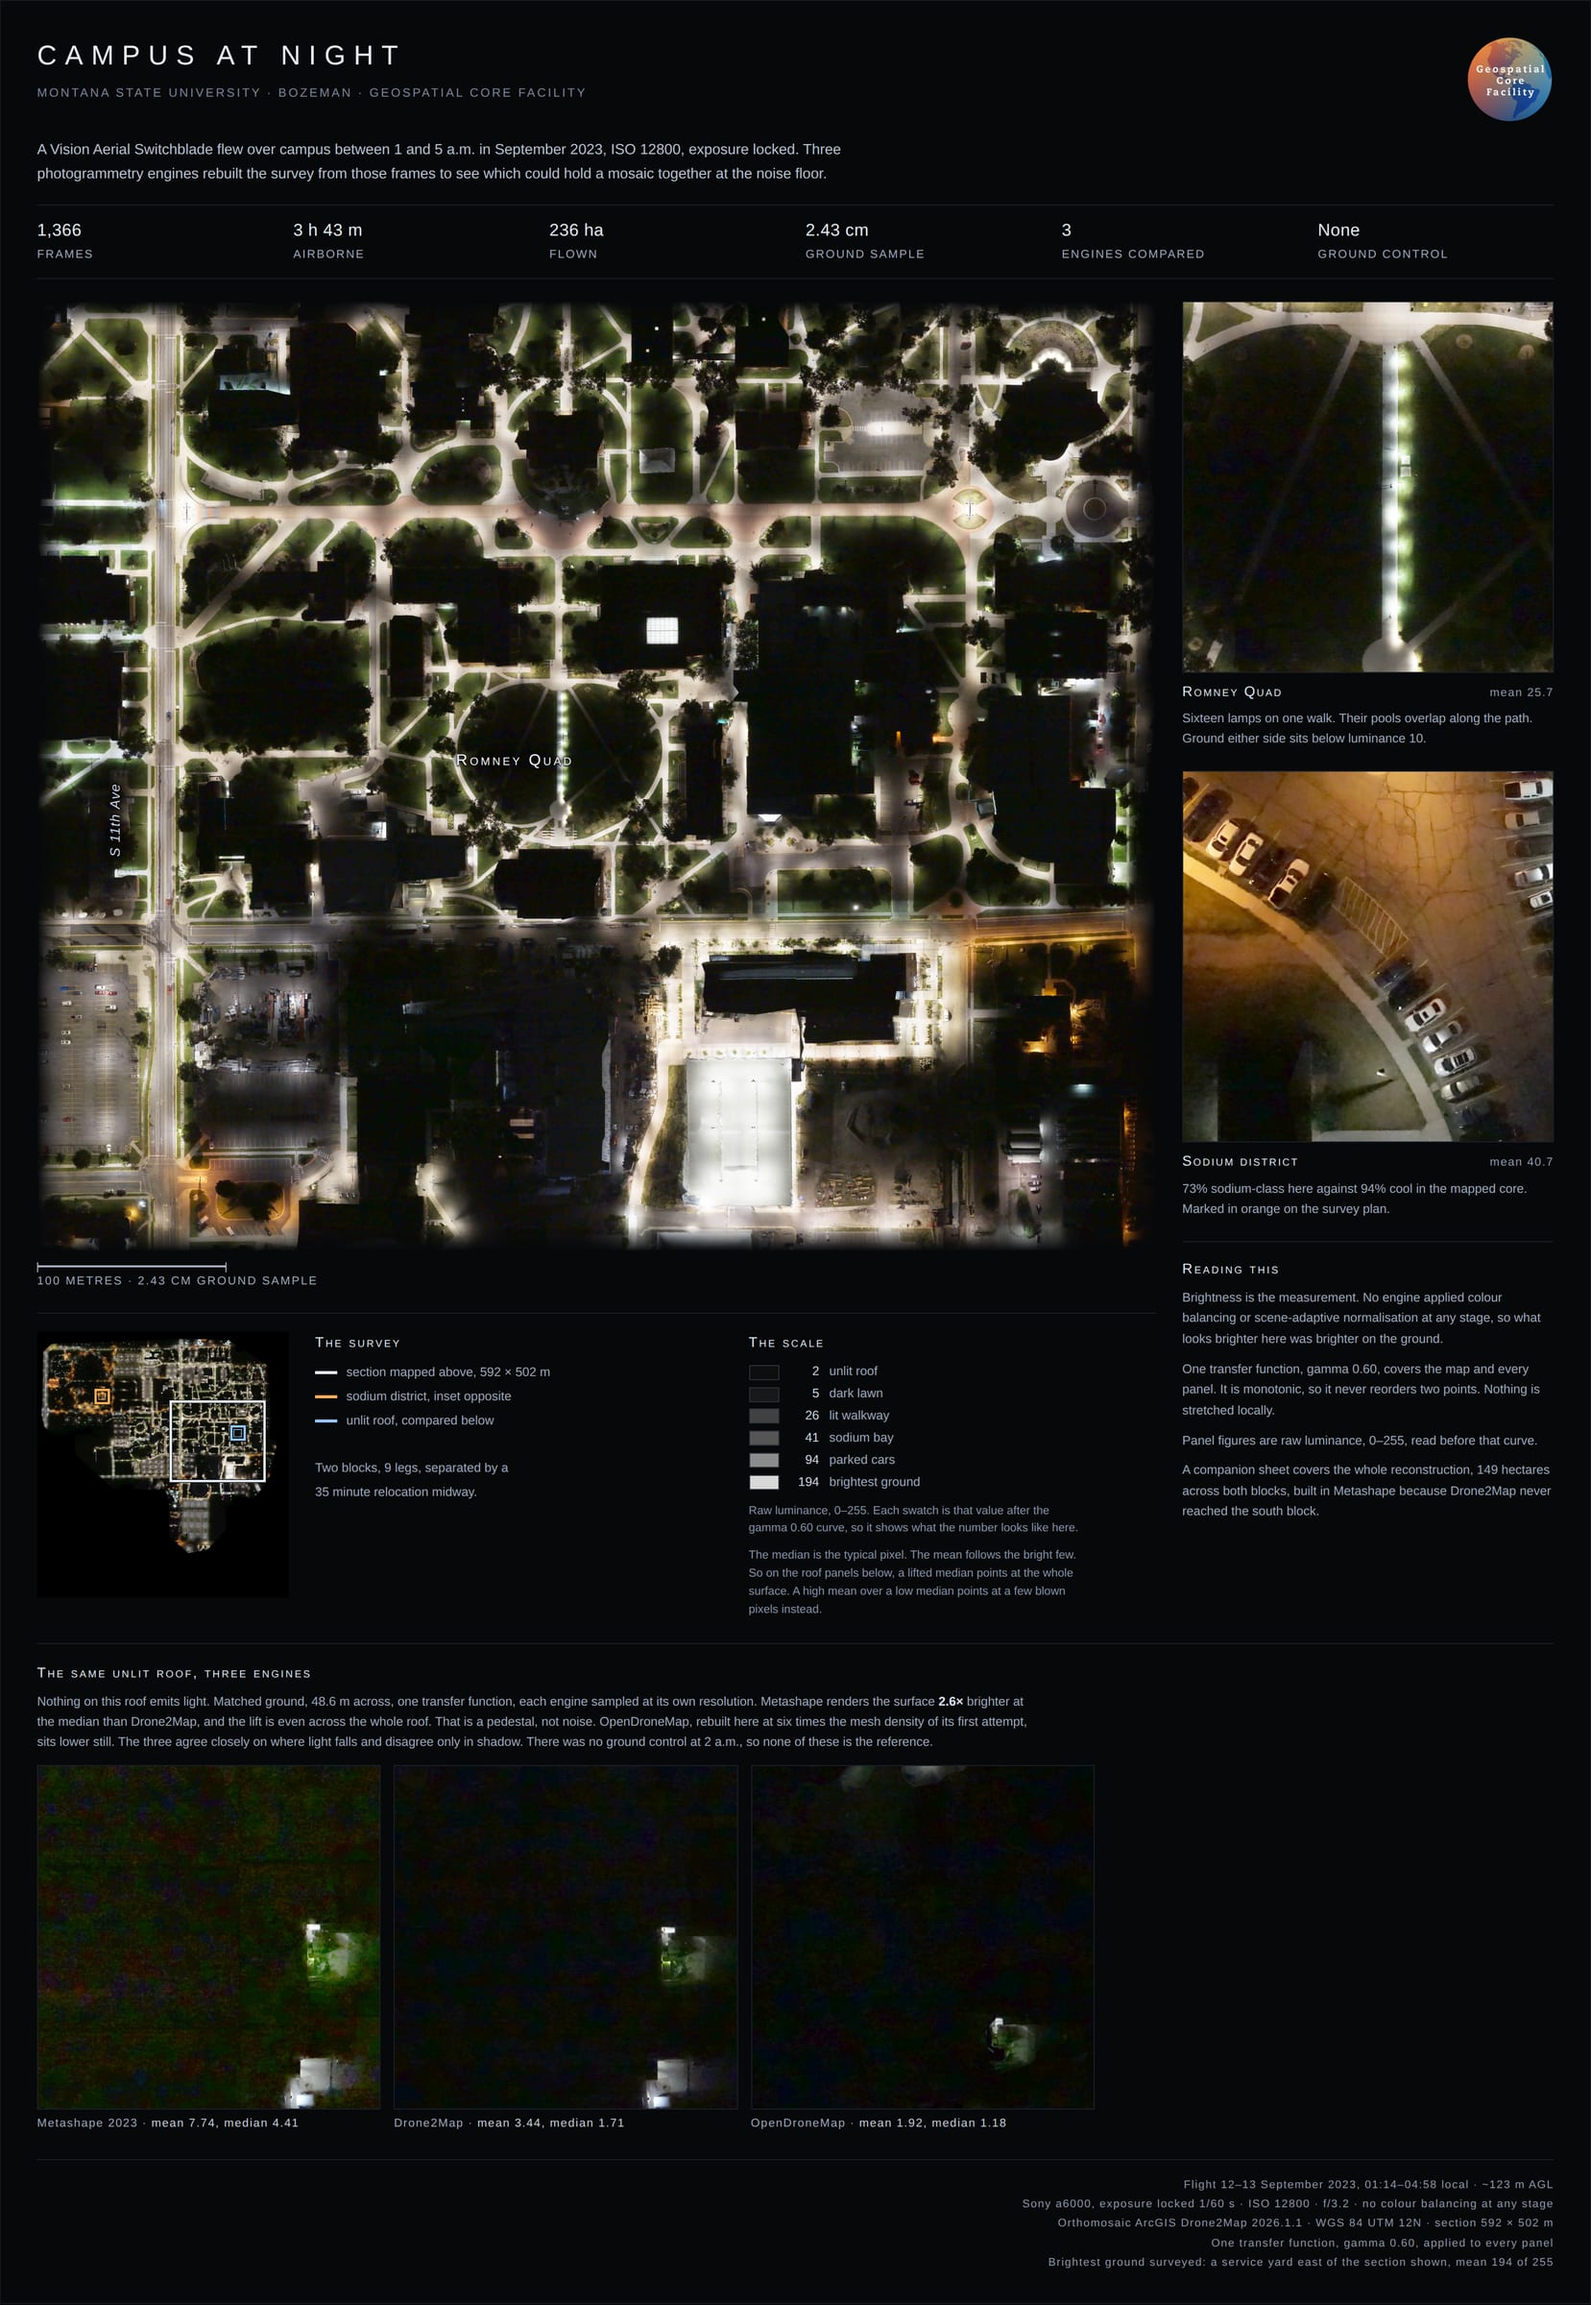
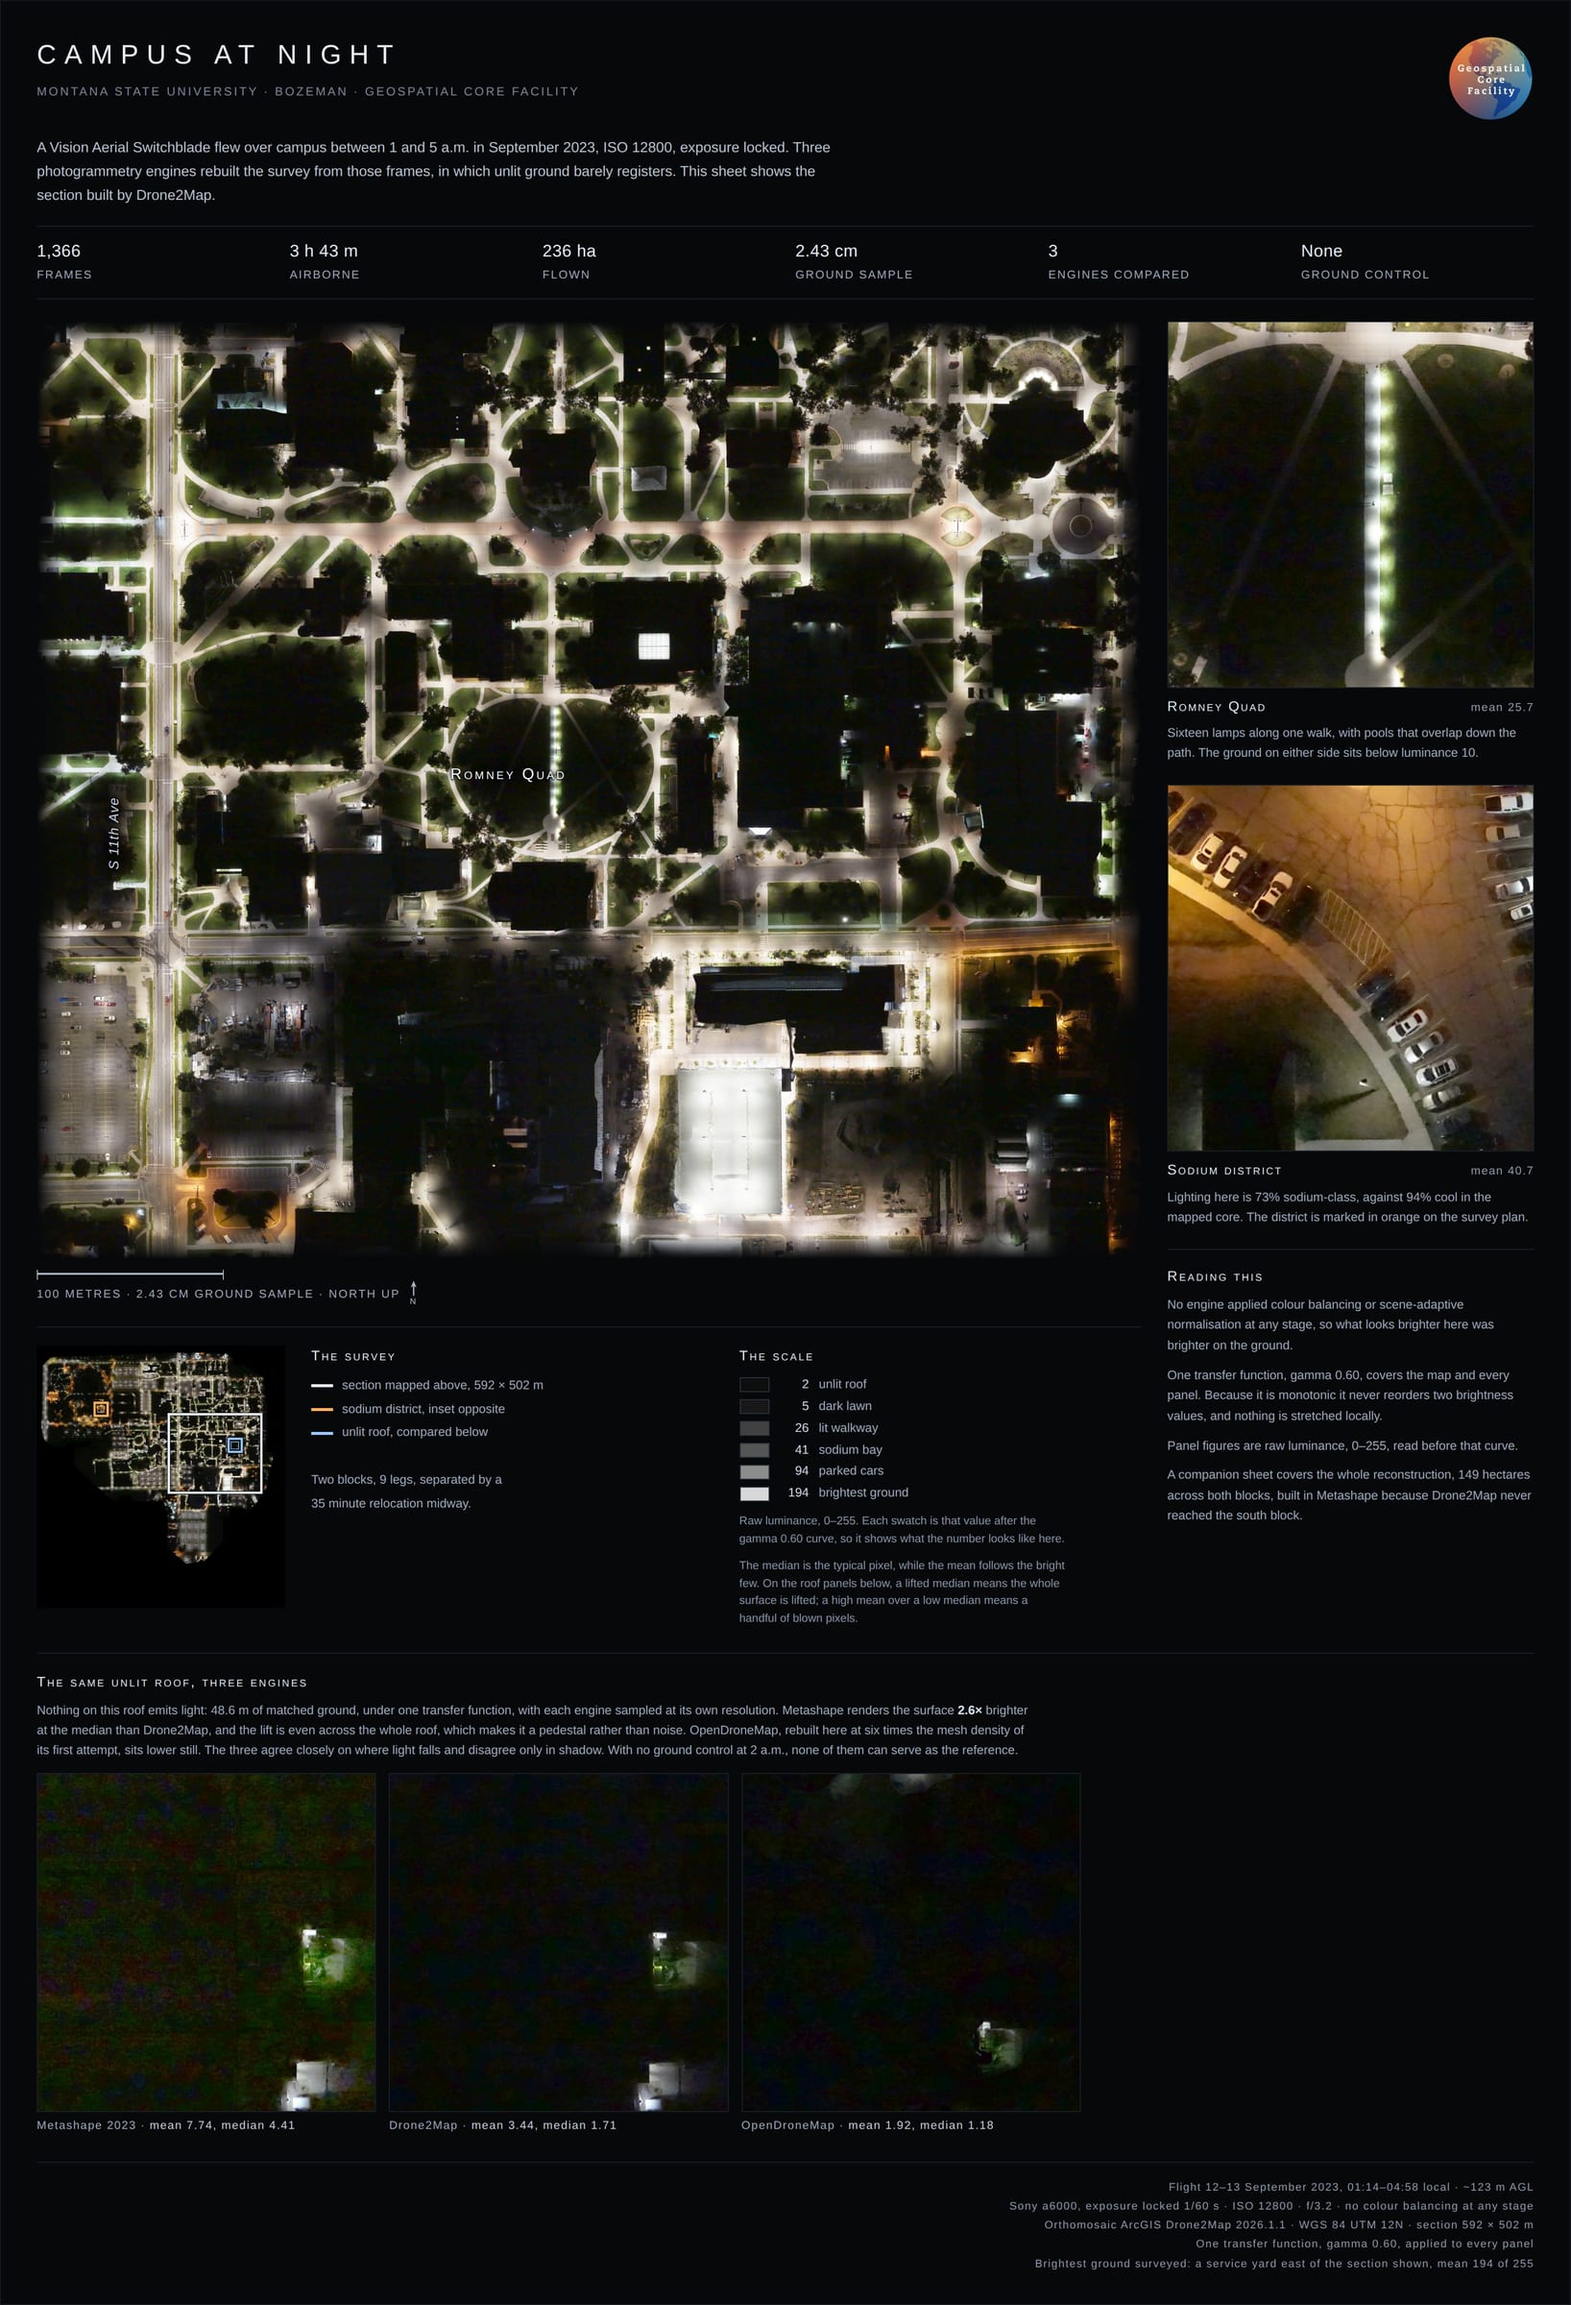
Campus at Night: revise the sheets, add insets, open sheets in a lightbox
The sheets are revised at source (section v18, survey fa2) and
re-exported: north-up marks by both scale bars, a locator on the survey
sheet outlining the section sheet's 592 x 502 m extent, place labels for
Romney Quad, Brick Breeden Fieldhouse and S 11th Ave, and a plain-language
pass over sheet and site copy. No figure changed; the imagery inside the
sheets is untouched.

The gallery group grows to five with the sodium-district and south-block
inset panels. Sheets on the project page now open in a scrollable lightbox
at natural size, the same progressive enhancement as the Maps page. All
six derivatives recut from the new renders; JPEG kept after rerunning the
format test.

diff --git a/src/content/gallery/campus-at-night-reconstruction.md b/src/content/gallery/campus-at-night-reconstruction.md
@@ -3,6 +3,12 @@
 # (source bbox 74,608-2300,2862 of 3160x3784). Same crop-not-scale rule as
 # its companion; the whole sheet is on the project page.
 #
+# 2026-08-03: RECUT from the revised fa2 sheet at the SAME bbox. The fa2
+# map panel carries three place labels (kept — they read as part of the
+# map) and the section-sheet locator rectangle (HIDDEN for this crop, one
+# CSS line in a variant render: a rectangle tagged "section sheet" would
+# dangle without the sheet around it). Reversing that is one re-render.
+#
 # THE BLACK GROUND BETWEEN THE TWO BLOCKS IS DESCRIBED, NOT EXPLAINED.
 # 00_summary.md says 236 ha were flown in two blocks and Metashape
 # reconstructed 149 across both. It does not say whether the gap is unflown
@@ -13,9 +19,9 @@ blurb: "Everything Metashape reconstructed, out of 236 hectares flown. It was th
 year: 2023
 tools: ["UAV", "Agisoft Metashape"]
 image: "../../assets/images/campus-at-night-reconstruction.jpg"
-alt: "Irregular night orthomosaic of the MSU campus on black: a large rectangular block of lit walkways and parking lots at upper left, a second block at lower right containing a stadium bowl, and empty black ground between them."
+alt: "Irregular night orthomosaic of the MSU campus on black: a large rectangular block of lit walkways and parking lots at upper left, a second block at lower right containing the round roof of Brick Breeden Fieldhouse, and empty black ground between them. Labels name Romney Quad, Brick Breeden Fieldhouse, and S 11th Ave."
 group: "campus-at-night"
-groupOrder: 2
+groupOrder: 3
 order: 3
 draft: false
 ---

diff --git a/src/content/gallery/campus-at-night-sodium-district.md b/src/content/gallery/campus-at-night-sodium-district.md
@@ -1,0 +1,24 @@
+---
+# Added 2026-08-03 as part of the Campus at Night sheet revision. This is
+# the section sheet's SODIUM DISTRICT inset, published at its embedded
+# resolution (900x900 — the highest-resolution version of this inset that
+# exists outside the source mosaics; the sheet itself displays it smaller).
+# Figures are the ones printed on the sheet: mean 40.7, 73% sodium-class
+# against 94% cool in the mapped core. Do not add a direction or location
+# for the district beyond "marked in orange on the survey plan" — the
+# summary does not give one.
+#
+# JPEG because the source inset is already JPEG inside the sheet HTML;
+# ingest re-encodes at q82 (one extra lossy pass, checked by eye at
+# delivered size).
+title: "The sodium district"
+blurb: "An inset from the section sheet: the block where high-pressure sodium still holds, 73% sodium-class against 94% cool in the mapped core, mean 40.7. No colour balancing was applied; the amber is what the sensor recorded."
+year: 2023
+tools: ["UAV", "Esri Drone2Map"]
+image: "../../assets/images/campus-at-night-sodium-district.jpg"
+alt: "Aerial night close-up of a curved parking loop lit amber by high-pressure sodium lamps: cars in angled stalls along the curve, cracked pavement reading clearly in the warm light, and a dark lawn at lower left."
+group: "campus-at-night"
+groupOrder: 2
+order: 3
+draft: false
+---

diff --git a/src/content/gallery/campus-at-night-section.md b/src/content/gallery/campus-at-night-section.md
@@ -5,12 +5,17 @@
 # documents "shrink to nothing in feeds and thumbnails. Crop them rather
 # than scaling them down." The whole sheet is on the project page.
 #
+# 2026-08-03: RECUT from the revised v18 sheet. The lede grew a line, so
+# the panel moved: bbox is now 78,650-2288,2529 of 3160x4636. Content of
+# the panel itself is pixel-identical to v17; the blurb lost its
+# "brightness is a measurement" aphorism in the de-AI pass.
+#
 # JPEG, not PNG, per the photographic-imagery rule and measured: the
 # pipeline's palette-PNG output was 2,217 KB at 2.11/255 mean error against
 # a lossless reference, WORSE than mozjpeg quality 82 at 489 KB and
 # 2.27/255 — this is continuous-tone night imagery, not a figure.
 title: "The core, from Drone2Map"
-blurb: "A 592 by 502 metre section of the campus core at 2.43 cm ground sample, from the engine that produced the cleanest mosaic. Exposure was locked and no engine applied colour balancing, so brightness is a measurement."
+blurb: "A 592 by 502 metre section of the campus core at 2.43 cm ground sample, from the engine that produced the cleanest mosaic. Exposure was locked and no colour balancing was applied, so differences in brightness are differences on the ground."
 year: 2023
 tools: ["UAV", "Esri Drone2Map"]
 image: "../../assets/images/campus-at-night-section.jpg"

diff --git a/src/content/gallery/campus-at-night-south-block.md b/src/content/gallery/campus-at-night-south-block.md
@@ -1,0 +1,19 @@
+---
+# Added 2026-08-03 as part of the Campus at Night sheet revision. This is
+# the complete-survey sheet's SOUTH BLOCK inset, published at its embedded
+# resolution (900x900, same situation as the sodium-district inset).
+# Figures are the sheet's own: mean 23.2, 250 m across, 71% below
+# luminance 10, median 3. THE HANDLING RULES STILL APPLY: Metashape
+# produced ground no other engine did — that is coverage, not accuracy.
+# Do not let this blurb drift toward "Metashape was the best engine."
+title: "The south block"
+blurb: "An inset from the complete-survey sheet: 250 metres of ground no other engine reconstructed. Seventy-one per cent of it sits below luminance 10 and the median is 3: one lit parking lot in a block that is otherwise close to dark."
+year: 2023
+tools: ["UAV", "Agisoft Metashape"]
+image: "../../assets/images/campus-at-night-south-block.jpg"
+alt: "Aerial night view of mostly dark ground: one brightly lit parking lot with rows of cars at lower left, faint grey streets and small lamp pools elsewhere, and a small amber patch near the bottom."
+group: "campus-at-night"
+groupOrder: 4
+order: 3
+draft: false
+---

diff --git a/src/content/gallery/msu-campus-lighting-2023.md b/src/content/gallery/msu-campus-lighting-2023.md
@@ -22,7 +22,7 @@ tools: ["UAV", "Agisoft Metashape", "ArcGIS Pro"]
 image: "../../assets/images/msu-campus-lighting-2023.png"
 alt: "Night orthomosaic of the Montana State University campus on a dark street basemap, walkways and parking lots traced by white-green lamp pools, with amber sodium-vapor lighting around the housing loops at upper left."
 group: "campus-at-night"
-groupOrder: 3
+groupOrder: 5
 order: 3
 draft: false
 ---
